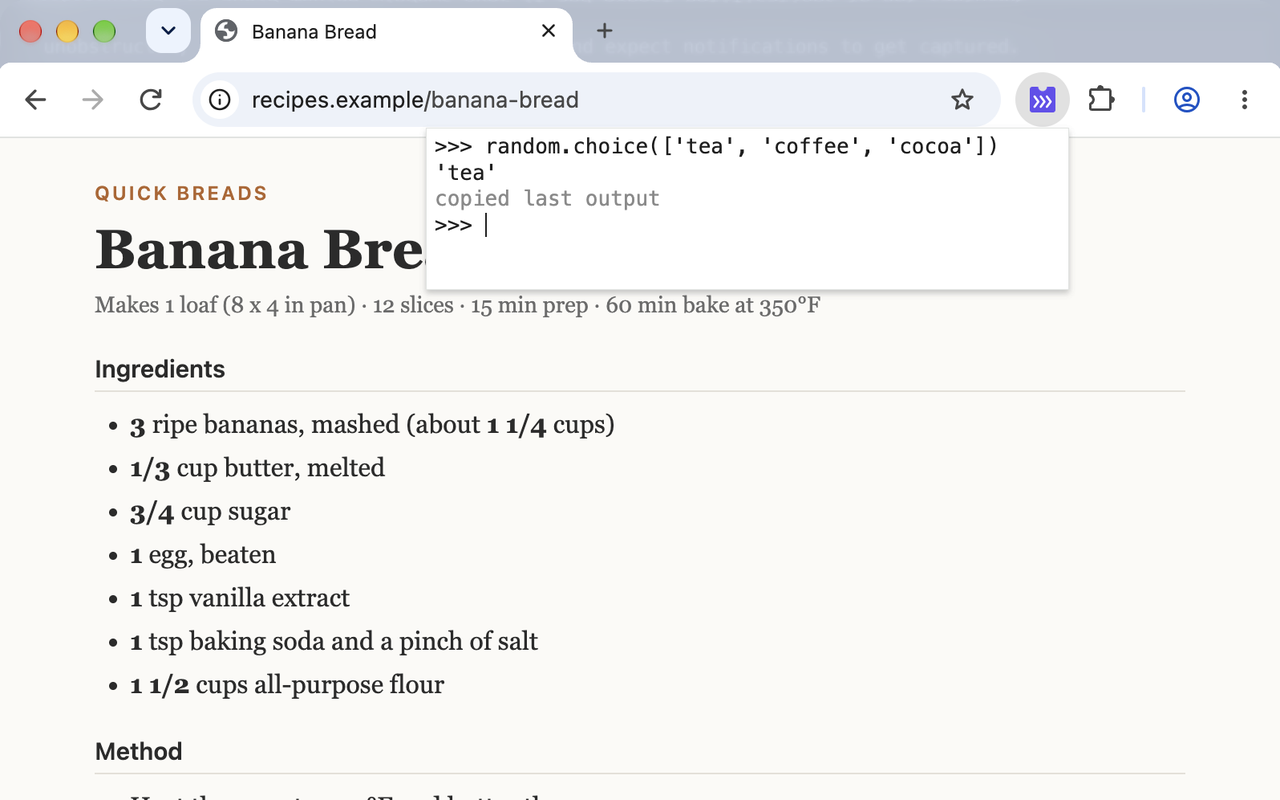
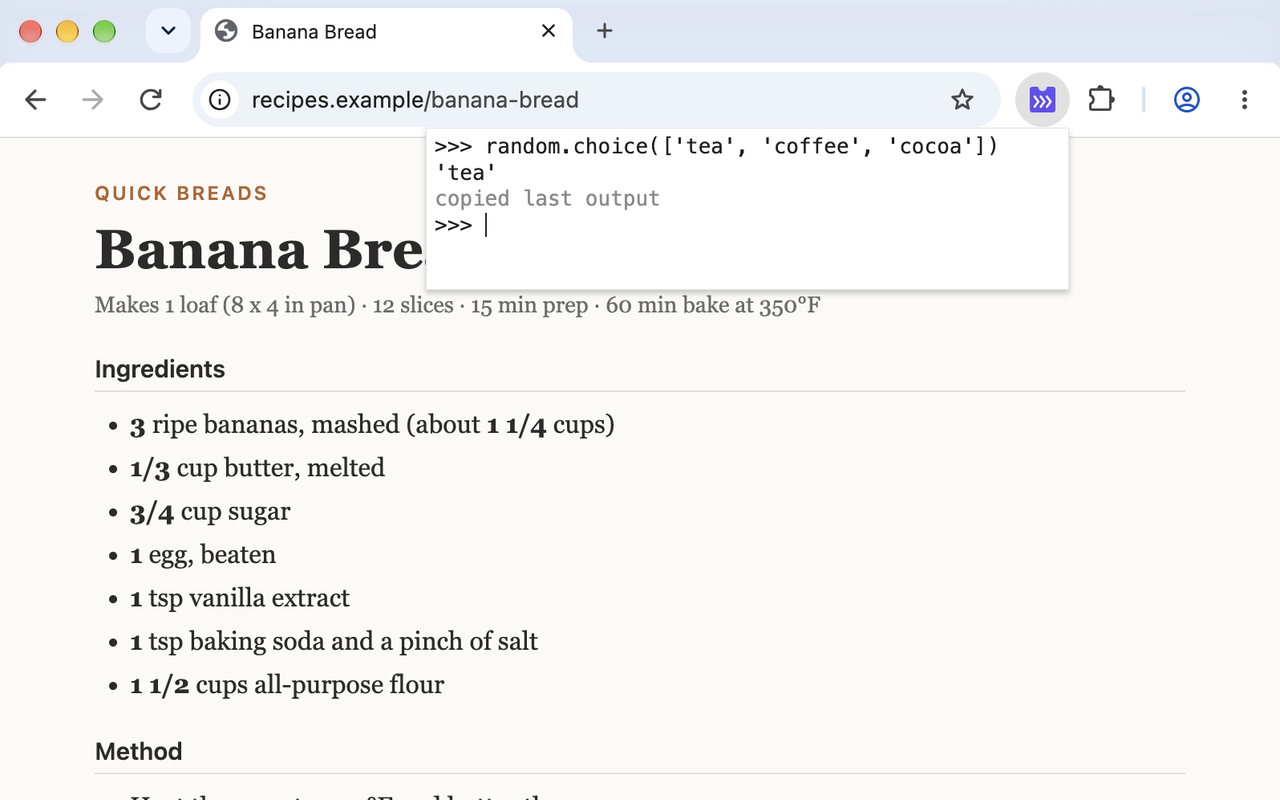
Put an opaque backdrop window behind the demo recording
The translucent tab strip showed other windows (a terminal) through it.
A second Chrome window in a flat gray now sits behind the demo window,
and demo_assemble.py fails if the tab-strip band is not uniform.

Changed region(s): [[0.0, 0.0, 1.0, 0.0938]]

diff --git a/scripts/demo_assemble.py b/scripts/demo_assemble.py
@@ -22,7 +22,7 @@ import json
 from dataclasses import dataclass
 from pathlib import Path
 
-from PIL import Image, ImageDraw, ImageFont
+from PIL import Image, ImageDraw, ImageFont, ImageStat
 
 PROJECT_ROOT = Path(__file__).resolve().parent.parent
 CAPTURE_ROOT = PROJECT_ROOT / ".cache" / "demo"
@@ -35,6 +35,11 @@ CORNER_RADIUS_PX = 30  # macOS window corner, a little generous
 # Where the corner fill colour is sampled, measured from each corner (x, y).
 TOP_CORNER_SAMPLE = (CORNER_RADIUS_PX, CORNER_RADIUS_PX // 2)
 BOTTOM_CORNER_SAMPLE = (CORNER_RADIUS_PX, CORNER_RADIUS_PX // 2)
+
+# Empty tab-strip area (left, top, right, bottom): right of the "+" button,
+# left of the window edge, above the toolbar.
+TAB_STRIP_BAND_PX = (900, 16, 1560, 64)
+TAB_STRIP_MAX_STDDEV = 3.0  # clean captures measure about 1; text behind is far above
 
 STORE_SIZE = (1280, 800)  # Chrome Web Store screenshot size
 GIF_WIDTH = 960
@@ -66,6 +71,24 @@ class Frame:
     image: Image.Image
     hold_ms: int
     caption: str | None
+
+
+def checked_capture(path: Path) -> Image.Image:
+    """Open a capture; fail if anything shows through the translucent tab strip.
+
+    The empty tab-strip area right of the "+" button should be a flat colour
+    (it blurs the opaque backdrop window from scripts/demo.mjs). Text or other
+    windows behind it show up as luminance variance.
+    """
+    image = Image.open(path)
+    band = image.convert("L").crop(TAB_STRIP_BAND_PX)
+    stddev = ImageStat.Stat(band).stddev[0]
+    if stddev > TAB_STRIP_MAX_STDDEV:
+        raise SystemExit(
+            f"{path.name}: tab strip is not uniform (luminance stddev {stddev:.1f} > {TAB_STRIP_MAX_STDDEV}); "
+            "something behind the Chrome window shows through"
+        )
+    return image
 
 
 def square_corners(image: Image.Image) -> Image.Image:
@@ -142,7 +165,7 @@ def build_gif() -> None:
     rgb_frames: list[Image.Image] = []
     durations: list[int] = []
     for entry in manifest["frames"]:
-        img = square_corners(Image.open(src_dir / entry["file"]))
+        img = square_corners(checked_capture(src_dir / entry["file"]))
         height = round(img.height * GIF_WIDTH / img.width)
         img = img.resize((GIF_WIDTH, height), Image.Resampling.LANCZOS)
         if entry["caption"]:
@@ -178,7 +201,7 @@ def build_store() -> None:
     src_dir = CAPTURE_ROOT / "store"
     STORE_OUT_DIR.mkdir(parents=True, exist_ok=True)
     for shot in manifest["shots"]:
-        img = square_corners(Image.open(src_dir / shot["file"]))
+        img = square_corners(checked_capture(src_dir / shot["file"]))
         img = img.resize(STORE_SIZE, Image.Resampling.LANCZOS)
         out = STORE_OUT_DIR / f"{shot['name']}.png"
         img.save(out, optimize=True)
